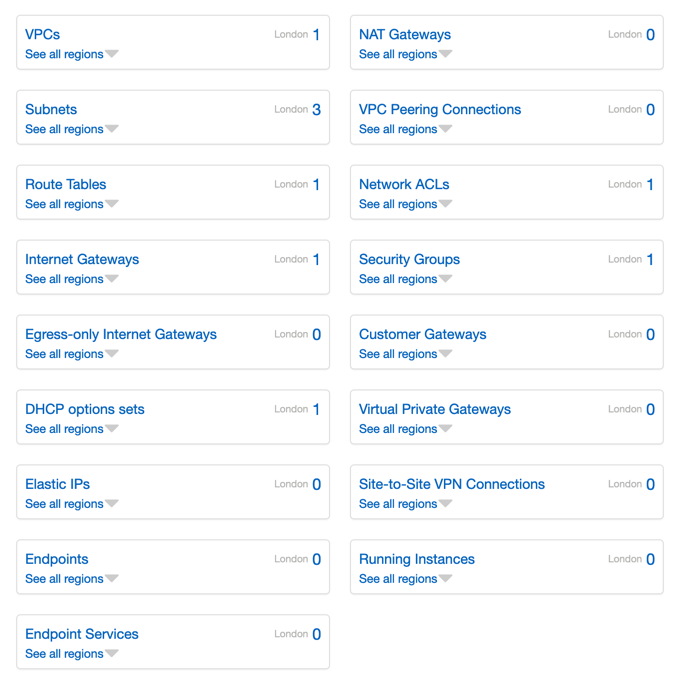
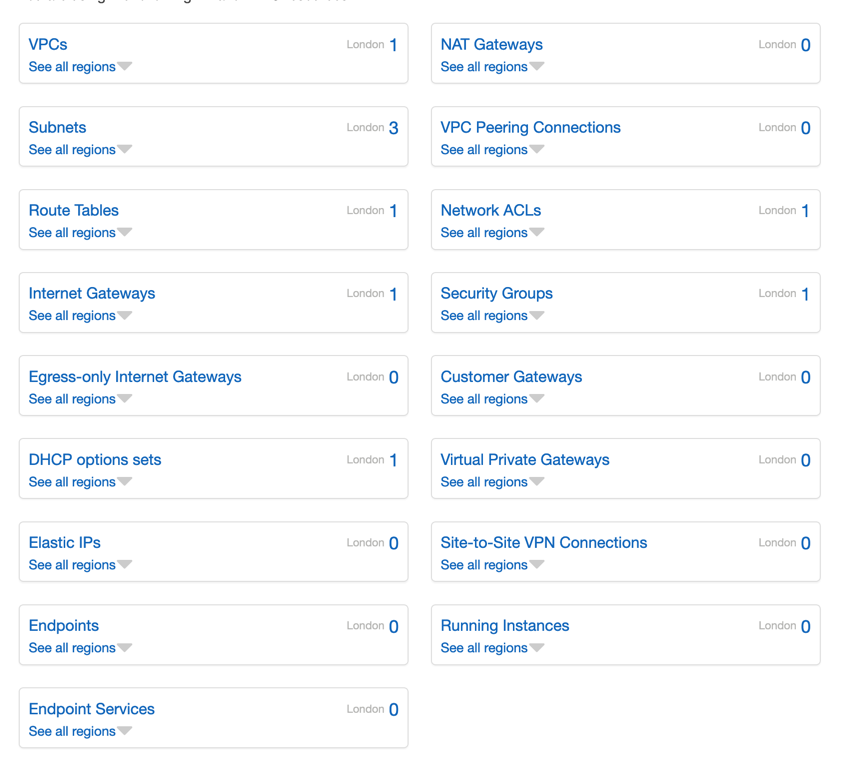
vpc-dashboard

diff --git a/01-vpc-essentials/README.md b/01-vpc-essentials/README.md
@@ -39,7 +39,7 @@ When creating an AWS account, a **Default VPC** is created for us, including the
 1. A **Network Access Control List** with predefined rules for access.
 1. **Subnets** to provision AWS resources in (such as **EC2 Instances**).
 
-<div align="center"><img src="assets/vpc-dashboard.png" width="450"></div>
+<div align="center"><img src="assets/vpc-dashboard.png" width="600"></div>
 
 
 ## Internet Gateways (IGWs)
